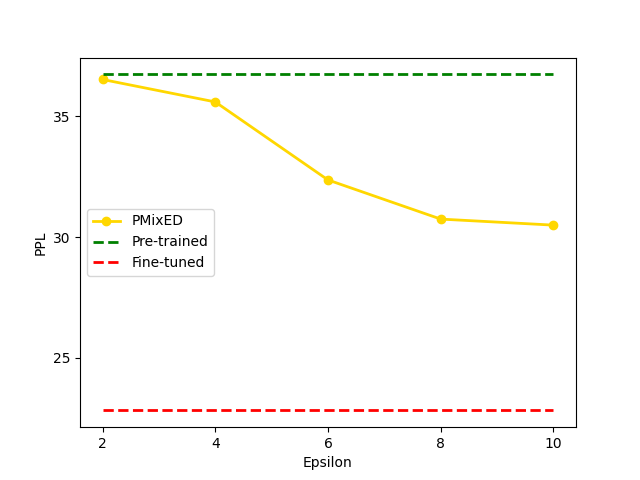
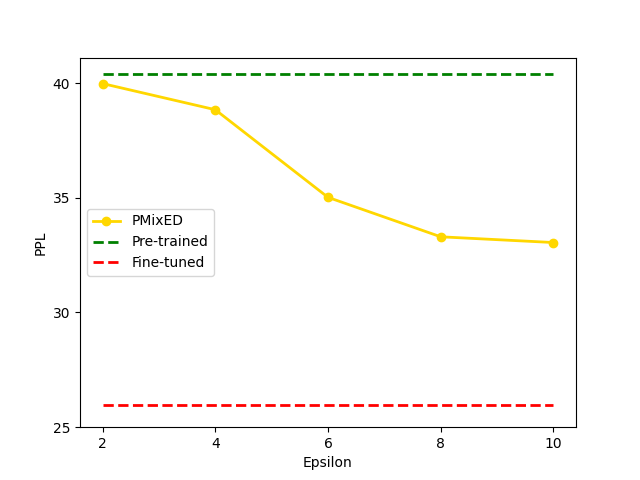
Update hyperparamter experiments

diff --git a/gen_plts.py b/gen_plts.py
@@ -6,62 +6,87 @@ file_name = "results.csv"
 
 df = pd.read_csv(file_name)
 
-plt.plot(df.iloc[:5]['epsilon'], df.iloc[:5]['ppl'], linewidth=2, label="PMixED", color='gold', marker='o')
-plt.plot(df.iloc[:5]['epsilon'], [36.74 for _ in range(5)], linestyle='dashed', linewidth=2, label='Pre-trained', color="green")
-plt.plot(df.iloc[:5]['epsilon'], [22.83 for _ in range(5)], linestyle='dashed', linewidth=2, label='Fine-tuned', color="red")
+eps_s, eps_e = 0, 5 
+ens_s, ens_e = 5, 9 
+alp_s, alp_e = 9, 14 
+qb_s, qb_e = 14, 18 
+p_s, p_e = 18, 22
+
+pre_trained = 40.39
+fine_tuned = 25.96
+yticks = [25, 30, 35, 40]
+
+plt.plot(df.iloc[eps_s:eps_e]['epsilon'], df.iloc[eps_s:eps_e]['ppl'], linewidth=2,
+          label="PMixED", color='gold', marker='o')
+plt.plot(df.iloc[eps_s:eps_e]['epsilon'], [pre_trained for _ in range((eps_e-eps_s))],
+          linestyle='dashed', linewidth=2, label='Pre-trained', color="green")
+plt.plot(df.iloc[eps_s:eps_e]['epsilon'], [fine_tuned for _ in range((eps_e-eps_s))],
+          linestyle='dashed', linewidth=2, label='Fine-tuned', color="red")
 plt.xlabel("Epsilon")
-plt.yticks([25, 30, 35])
+plt.yticks(yticks)
 plt.xticks([2, 4, 6, 8, 10])
 plt.ylabel("PPL")
 plt.legend(loc='center left')
 plt.savefig('plts/epsilon.png')
 plt.clf()
 
-plt.plot(df.iloc[5:9]['num_ensemble'].astype(str), df.iloc[5:9]['ppl'], linewidth=2, label="PMixED", color='gold', marker='o')
-plt.plot(df.iloc[5:9]['num_ensemble'].astype(str), [36.74 for _ in range(4)], linestyle='dashed', linewidth=2, label='Pre-trained', color="green")
-plt.plot(df.iloc[5:9]['num_ensemble'].astype(str), [22.83 for _ in range(4)], linestyle='dashed', linewidth=2, label='Fine-tuned', color="red")
+plt.plot(df.iloc[ens_s:ens_e]['num_ensemble'].astype(str), df.iloc[ens_s:ens_e]['ppl'],
+          linewidth=2, label="PMixED", color='gold', marker='o')
+plt.plot(df.iloc[ens_s:ens_e]['num_ensemble'].astype(str), [pre_trained for _ in range((ens_e-ens_s))],
+          linestyle='dashed', linewidth=2, label='Pre-trained', color="green")
+plt.plot(df.iloc[ens_s:ens_e]['num_ensemble'].astype(str), [fine_tuned for _ in range((ens_e-ens_s))],
+          linestyle='dashed', linewidth=2, label='Fine-tuned', color="red")
 plt.xlabel("Number of Ensembles")
-plt.yticks([25, 30, 35])
+plt.yticks(yticks)
 #plt.xticks([8, 16, 32, 64])
 plt.ylabel("PPL")
 plt.legend()
 plt.savefig('plts/ensemble.png')
 plt.clf()
 
-plt.plot(df.iloc[9:14]['alpha'], df.iloc[9:14]['ppl'], linewidth=2, label="PMixED", color='gold', marker='o')
-plt.plot(df.iloc[9:14]['alpha'], [36.74 for _ in range(5)], linestyle='dashed', linewidth=2, label='Pre-trained', color="green")
-plt.plot(df.iloc[9:14]['alpha'], [22.83 for _ in range(5)], linestyle='dashed', linewidth=2, label='Fine-tuned', color="red")
+plt.plot(df.iloc[alp_s:alp_e]['alpha'], df.iloc[alp_s:alp_e]['ppl'],
+          linewidth=2, label="PMixED", color='gold', marker='o')
+plt.plot(df.iloc[alp_s:alp_e]['alpha'], [pre_trained for _ in range((alp_e-alp_s))],
+          linestyle='dashed', linewidth=2, label='Pre-trained', color="green")
+plt.plot(df.iloc[alp_s:alp_e]['alpha'], [fine_tuned for _ in range((alp_e-alp_s))],
+          linestyle='dashed', linewidth=2, label='Fine-tuned', color="red")
 plt.xlabel("Alpha")
-plt.yticks([25, 30, 35])
+plt.yticks(yticks)
 plt.xticks([3, 4, 5, 6, 7])
 plt.ylabel("PPL")
 plt.legend()
 plt.savefig('plts/alpha.png')
 plt.clf()
 
-plt.plot(df.iloc[14:18]['query_budget'], df.iloc[14:18]['ppl'], linewidth=2, label="PMixED", color='gold', marker='o')
-plt.plot(df.iloc[14:18]['query_budget'], [36.74 for _ in range(4)], linestyle='dashed', linewidth=2, label='Pre-trained', color="green")
-plt.plot(df.iloc[14:18]['query_budget'], [22.83 for _ in range(4)], linestyle='dashed', linewidth=2, label='Fine-tuned', color="red")
+plt.plot(df.iloc[qb_s:qb_e]['query_budget'], df.iloc[qb_s:qb_e]['ppl'],
+          linewidth=2, label="PMixED", color='gold', marker='o')
+plt.plot(df.iloc[qb_s:qb_e]['query_budget'], [pre_trained for _ in range((qb_e-qb_s))],
+          linestyle='dashed', linewidth=2, label='Pre-trained', color="green")
+plt.plot(df.iloc[qb_s:qb_e]['query_budget'], [fine_tuned for _ in range((qb_e-qb_s))],
+          linestyle='dashed', linewidth=2, label='Fine-tuned', color="red")
 plt.xlabel("Query Budget")
-plt.yticks([25, 30, 35])
+plt.yticks(yticks)
 plt.xticks([512, 1024, 2048, 4096])
 plt.ylabel("PPL")
 plt.legend()
 plt.savefig('plts/query_budget.png')
 plt.clf()
 
-plt.plot(df.iloc[18:]['p'].astype(str), df.iloc[18:]['ppl'], linewidth=2, label="PMixED", color='gold', marker='o')
-plt.plot(df.iloc[18:]['p'].astype(str), [36.74 for _ in range(5)], linestyle='dashed', linewidth=2, label='Pre-trained', color="green")
-plt.plot(df.iloc[18:]['p'].astype(str), [22.83 for _ in range(5)], linestyle='dashed', linewidth=2, label='Fine-tuned', color="red")
+plt.plot(df.iloc[p_s:]['p'].astype(str), df.iloc[p_s:]['ppl'],
+          linewidth=2, label="PMixED", color='gold', marker='o')
+plt.plot(df.iloc[p_s:]['p'].astype(str), [pre_trained for _ in range((p_e-p_s))],
+          linestyle='dashed', linewidth=2, label='Pre-trained', color="green")
+plt.plot(df.iloc[p_s:]['p'].astype(str), [fine_tuned for _ in range((p_e-p_s))],
+          linestyle='dashed', linewidth=2, label='Fine-tuned', color="red")
 plt.xlabel("Subsample probability")
-plt.yticks([25, 30, 35])
+plt.yticks(yticks)
 #plt.xticks([1/16, 1/8, 1/4, 1/2, 1])
 plt.ylabel("PPL")
 plt.legend()
 plt.savefig('plts/probability.png')
 plt.clf()
 
-data = {"Pre-trained": 40.39, "Fine-Tuned": 25.96, "DP-SGD": 34.33, "PMixED": 33.30}
+data = {"Pre-trained": pre_trained, "Fine-Tuned": fine_tuned, "DP-SGD": 34.33, "PMixED": 33.30}
 
 bars = plt.bar(data.keys(), data.values(), width=0.4)
 bars[0].set_color('green')

diff --git a/hyperparameter_experiments.py b/hyperparameter_experiments.py
@@ -40,55 +40,39 @@ def update_results(epsilon, q_budget, alpha, num_ensemble, p, ppl):
     'ppl': ppl
     }
 
+def get_results(epsilon, query_budget, alpha, num_ensembles, p, iters):
+    command = create_command(epsilon, query_budget, alpha,
+                                num_ensembles, p, iters)
+    output = subprocess.run(command, stdout=subprocess.PIPE)
+    ppl = output.stdout.decode('utf-8').split('\n')[-2].split(" ")[-1]
+    results = update_results(epsilon, query_budget, alpha,
+                            num_ensembles, p, ppl) 
+    return results
+
 with open(results_file, 'w') as f:
     w = csv.DictWriter(f, fieldnames=parameters)
     w.writeheader()
 
     for epsilon in tqdm.tqdm(epsilons, desc="Epsilon"):
         default_alpha = math.ceil(4 * np.log(1 / delta) / (3 * epsilon) + 1)
-        command = create_command(epsilon, default_query_budget, default_alpha,
-                                default_num_ensembles, default_p, default_iters)
-        result = subprocess.run(command, stdout=subprocess.PIPE)
-        ppl = result.stdout.decode('utf-8').split('\n')[-2]
-        results = update_results(epsilon, default_query_budget, default_alpha,
-                                default_num_ensembles, default_p, ppl) 
+        results = get_results(epsilon, default_query_budget, default_alpha, default_num_ensembles, default_p, default_iters)
         w.writerow(results)
 
     default_alpha = 3
 
     for ensemble in tqdm.tqdm(num_ensembles, desc="Ensemble"):
-        p_s = 1/8 if ensemble == 8 else 1/16
-        command = create_command(default_epsilon, default_query_budget, default_alpha,
-                                ensemble, default_p, default_iters)
-        result = subprocess.run(command, stdout=subprocess.PIPE)
-        ppl = result.stdout.decode('utf-8').split('\n')[-2]
-        results = update_results(default_epsilon, default_query_budget, default_alpha,
-                                ensemble, default_p, ppl) 
+        default_p = 1/8 if ensemble == 8 else 1/16
+        results = get_results(default_epsilon, default_query_budget, default_alpha, ensemble, default_p, default_iters)
         w.writerow(results)
 
     for alpha in tqdm.tqdm(alphas, desc="alpha"):
-        command = create_command(default_epsilon, default_query_budget, alpha,
-                                default_num_ensembles, default_p, default_iters)
-        result = subprocess.run(command, stdout=subprocess.PIPE)
-        ppl = result.stdout.decode('utf-8').split('\n')[-2]
-        results = update_results(default_epsilon, default_query_budget, alpha,
-                                default_num_ensembles, default_p, ppl) 
+        results = get_results(default_epsilon, default_query_budget, alpha, default_num_ensembles, default_p, default_iters)
         w.writerow(results)
 
     for q_budget in tqdm.tqdm(query_budgets, desc="Query Budget"):
-        command = create_command(default_epsilon, q_budget, default_alpha,
-                                default_num_ensembles, default_p, default_iters)
-        result = subprocess.run(command, stdout=subprocess.PIPE)
-        ppl = result.stdout.decode('utf-8').split('\n')[-2]
-        results = update_results(default_epsilon, q_budget, default_alpha,
-                                default_num_ensembles, default_p, ppl) 
+        results = get_results(default_epsilon, q_budget, default_alpha, default_num_ensembles, default_p, default_iters)
         w.writerow(results)
 
     for p in tqdm.tqdm(p_s, desc="Sample probability"):
-        command = create_command(default_epsilon, default_query_budget, default_alpha,
-                                default_num_ensembles, p, default_iters)
-        result = subprocess.run(command, stdout=subprocess.PIPE)
-        ppl = result.stdout.decode('utf-8').split('\n')[-2]
-        results = update_results(default_epsilon, default_query_budget, default_alpha,
-                                default_num_ensembles, p, ppl) 
+        results = get_results(default_epsilon, default_query_budget, default_alpha, default_num_ensembles, p, default_iters)
         w.writerow(results)
